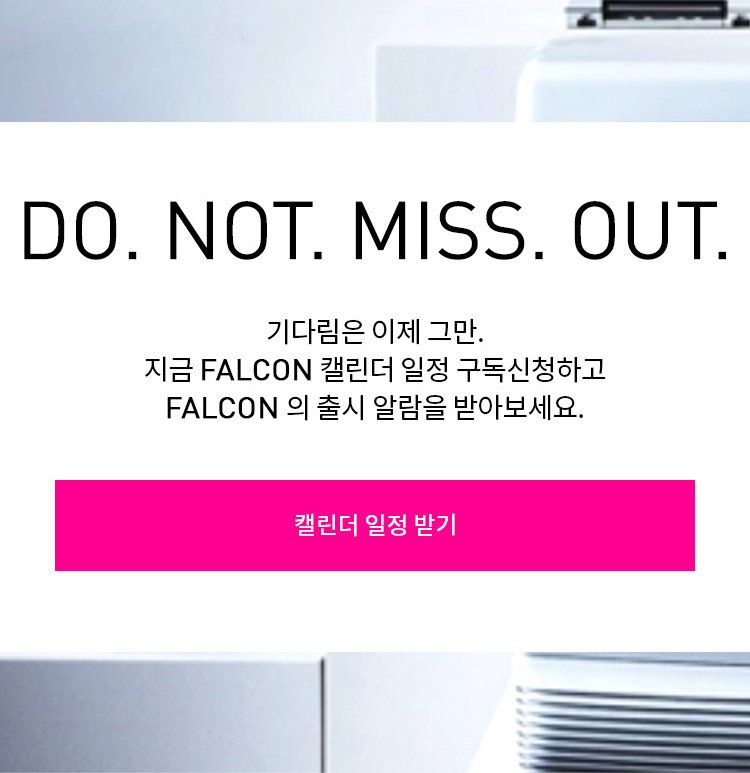
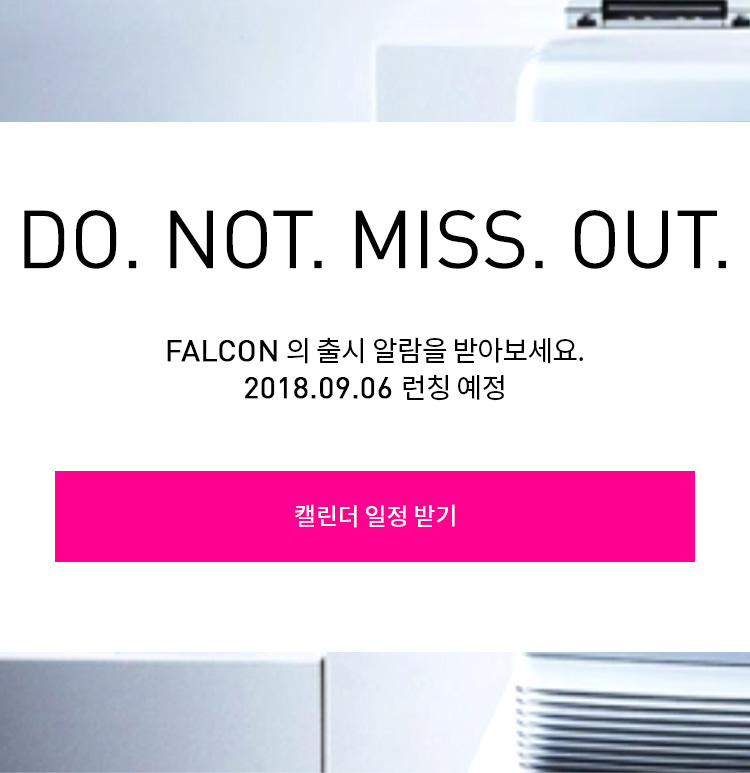
-

diff --git a/app/html/adidas/event/falcon/180830/build/index.html b/app/html/adidas/event/falcon/180830/build/index.html
@@ -509,7 +509,8 @@
 
 			<div id="falcon">
                 <div class="visual">
-                    <img src="/images/adidas/event/falcon/180601/visual_2.gif" alt="">
+                    <img src="/images/adidas/event/falcon/180830/visual.jpg" alt="">
+                    <!-- <img src="/images/adidas/event/falcon/180601/visual_2.gif" alt=""> -->
                     <a href="https://linder.kr/s/adidasfalcon" class="link" style="top:82%; left:4%; width:35%; height:13%;"></a>
                     <div class="txt">
                         <h1>LIKE IT'S 1997
@@ -566,7 +567,7 @@
 
                 <div class="bottom">
                     <img src="/images/adidas/event/falcon/180830/bottom.jpg" alt="">
-                    <a href="https://linder.kr/s/adidasfalcon" class="link" style="top:62%; left:7.5%; width:85%; height:12%;"></a>
+                    <a href="https://linder.kr/s/adidasfalcon" class="link" style="top:61%; left:7.5%; width:85%; height:12%;"></a>
                 </div>
 			</div>
 			<!-- //falcon -->

diff --git a/app/html/adidas/event/falcon/180830/index.html b/app/html/adidas/event/falcon/180830/index.html
@@ -507,7 +507,8 @@
 
 			<div id="falcon">
                 <div class="visual">
-                    <img src="/images/adidas/event/falcon/180601/visual_2.gif" alt="">
+                    <img src="/images/adidas/event/falcon/180830/visual.jpg" alt="">
+                    <!-- <img src="/images/adidas/event/falcon/180601/visual_2.gif" alt=""> -->
                     <a href="https://linder.kr/s/adidasfalcon" class="link" style="top:82%; left:4%; width:35%; height:13%;"></a>
                     <div class="txt">
                         <h1>LIKE IT'S 1997
@@ -564,7 +565,7 @@
 
                 <div class="bottom">
                     <img src="/images/adidas/event/falcon/180830/bottom.jpg" alt="">
-                    <a href="https://linder.kr/s/adidasfalcon" class="link" style="top:62%; left:7.5%; width:85%; height:12%;"></a>
+                    <a href="https://linder.kr/s/adidasfalcon" class="link" style="top:61%; left:7.5%; width:85%; height:12%;"></a>
                 </div>
 			</div>
 			<!-- //falcon -->
